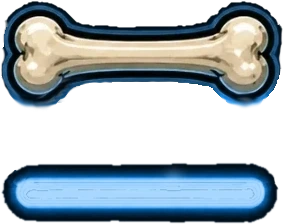
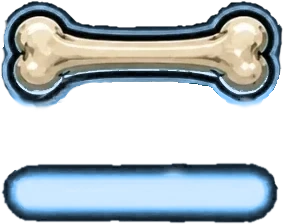
style(skeleton): brighter blue (#40a9ff) in CSS, canvas and images

diff --git a/src/renderer/style.css b/src/renderer/style.css
@@ -1387,7 +1387,7 @@ input[type="range"]::-moz-range-thumb {
 
 .skeleton-skin {
   /* The one Skeleton blue (spec: .kiro/specs/skeleton-one-blue.md). */
-  --sk-blue: #008cff;
+  --sk-blue: #40a9ff;
   filter: none;
 }
 
@@ -1428,7 +1428,7 @@ input[type="range"]::-moz-range-thumb {
   height: 23.2%;
   background: #020d16;
   border-radius: 1.1cqw;
-  box-shadow: inset 0 0 0 1px #38a5ff2e, inset 0 0 1.6cqw #000d18;
+  box-shadow: inset 0 0 0 1px #6abcff2e, inset 0 0 1.6cqw #000d18;
   overflow: hidden;
   z-index: 2;
 }
@@ -1442,7 +1442,7 @@ input[type="range"]::-moz-range-thumb {
   aspect-ratio: 1;
   transform: translate(-50%, -50%);
   border-radius: 50%;
-  background: #b5deff;
+  background: #c8e6ff;
   opacity: 0;
   transition: opacity 0.18s ease-out;
   pointer-events: none;
@@ -1488,7 +1488,7 @@ input[type="range"]::-moz-range-thumb {
   flex: none;
   display: flex;
   align-items: center;
-  color: var(--row, #35a4ff);
+  color: var(--row, #68bbff);
 }
 .skeleton-skin .sk-skull img {
   display: block;
@@ -1502,15 +1502,15 @@ input[type="range"]::-moz-range-thumb {
 .skeleton-skin .sk-row-time { flex: none; font-size: 0.95em; }
 .skeleton-skin .sk-row:hover,
 .skeleton-skin .sk-row:focus-visible {
-  filter: drop-shadow(0 0 0.45cqw #32a3ff);
-  outline: 1px solid #62b8ff;
+  filter: drop-shadow(0 0 0.45cqw #65baff);
+  outline: 1px solid #89caff;
 }
 .skeleton-skin .sk-row.active {
-  border-color: #63b9ff;
-  color: #35a4ff;
-  box-shadow: inset 0 0 0.45cqw #289eff, 0 0 0.45cqw #289eff;
+  border-color: #8acaff;
+  color: #68bbff;
+  box-shadow: inset 0 0 0.45cqw #5eb6ff, 0 0 0.45cqw #5eb6ff;
 }
-.skeleton-skin .sk-row.active .sk-row-time { color: #35a4ff; }
+.skeleton-skin .sk-row.active .sk-row-time { color: #68bbff; }
 
 /* Eye sockets = readout: the bloom follows the teeth-line energy */
 .skeleton-skin .sk-eye {
@@ -1522,7 +1522,7 @@ input[type="range"]::-moz-range-thumb {
   background: var(--sk-blue);
   filter: blur(0.2cqw);
   opacity: var(--eye, 0.2);
-  box-shadow: 0 0 1.2cqw 0.7cqw #008cff;
+  box-shadow: 0 0 1.2cqw 0.7cqw #40a9ff;
   pointer-events: none;
   z-index: 2;
 }
@@ -1576,9 +1576,9 @@ input[type="range"]::-moz-range-thumb {
   border-radius: 50%;
   background: radial-gradient(
     circle,
-    #008cff8c 0%,
-    #008cff4d 40%,
-    #0077d81f 64%,
+    #40a9ff8c 0%,
+    #40a9ff4d 40%,
+    #368fd81f 64%,
     transparent 80%
   );
   filter: blur(0.22cqw);
@@ -1591,13 +1591,13 @@ input[type="range"]::-moz-range-thumb {
   height: 100%;
   pointer-events: none;
   filter:
-    drop-shadow(0 0 0.16cqw #cde8ff)
-    drop-shadow(0 0 0.44cqw #1e9aff)
-    drop-shadow(0 0 1.05cqw #008cff);
+    drop-shadow(0 0 0.16cqw #daeeff)
+    drop-shadow(0 0 0.44cqw #56b3ff)
+    drop-shadow(0 0 1.05cqw #40a9ff);
 }
 .skeleton-skin .sk-glyph {
   fill: var(--sk-blue);
-  stroke: #d6edff;
+  stroke: #e0f1ff;
   stroke-width: 4.5;
   stroke-linejoin: round;
 }
@@ -1606,10 +1606,10 @@ input[type="range"]::-moz-range-thumb {
 .skeleton-skin .sk-body.playing .sk-glyph-pause { display: block; }
 .skeleton-skin .sk-body.playing .sk-pendant {
   box-shadow:
-    inset 0 0 0.59cqw #008cff99,
-    0 0 0.33cqw #1093ffaa,
-    0 0 0.91cqw #008cff99,
-    0 0 1.96cqw #008cff70;
+    inset 0 0 0.59cqw #40a9ff99,
+    0 0 0.33cqw #4caeffaa,
+    0 0 0.91cqw #40a9ff99,
+    0 0 1.96cqw #40a9ff70;
   animation: sk-breathe 1.6s ease-in-out infinite;
 }
 @keyframes sk-breathe {
@@ -1642,7 +1642,7 @@ input[type="range"]::-moz-range-thumb {
     #03111d var(--level, 80%),
     #03111d 100%
   );
-  box-shadow: inset 0 2px 4px #000c, 0 1px 1px #69ade530;
+  box-shadow: inset 0 2px 4px #000c, 0 1px 1px #88bbe530;
   cursor: pointer;
   z-index: 3;
 }
@@ -1651,18 +1651,18 @@ input[type="range"]::-moz-range-thumb {
   -webkit-appearance: none;
   width: clamp(7px, 2cqw, 30px);
   height: clamp(7px, 2cqw, 30px);
-  border: 1px solid #d3ebff;
+  border: 1px solid #def0ff;
   border-radius: 50%;
-  background: radial-gradient(circle at 35% 30%, #c9e7ff, var(--sk-blue) 55%, #007be0);
-  box-shadow: 0 0 3px #c9e7ff, 0 0 8px var(--sk-blue), 0 0 16px #008cffaa;
+  background: radial-gradient(circle at 35% 30%, #d6edff, var(--sk-blue) 55%, #3894e0);
+  box-shadow: 0 0 3px #d6edff, 0 0 8px var(--sk-blue), 0 0 16px #40a9ffaa;
 }
 .skeleton-skin .sk-volume::-moz-range-thumb {
   width: clamp(7px, 2cqw, 30px);
   height: clamp(7px, 2cqw, 30px);
-  border: 1px solid #d3ebff;
+  border: 1px solid #def0ff;
   border-radius: 50%;
-  background: radial-gradient(circle at 35% 30%, #c9e7ff, var(--sk-blue) 55%, #007be0);
-  box-shadow: 0 0 3px #c9e7ff, 0 0 8px var(--sk-blue), 0 0 16px #008cffaa;
+  background: radial-gradient(circle at 35% 30%, #d6edff, var(--sk-blue) 55%, #3894e0);
+  box-shadow: 0 0 3px #d6edff, 0 0 8px var(--sk-blue), 0 0 16px #40a9ffaa;
 }
 
 /* Muted: the arm's neon goes out. The lit run falls back to a dead tube and
@@ -1706,7 +1706,7 @@ input[type="range"]::-moz-range-thumb {
   background: transparent;
   transform: rotate(6deg);
   cursor: pointer;
-  filter: drop-shadow(0 0 0.26cqw #008cff);
+  filter: drop-shadow(0 0 0.26cqw #40a9ff);
   z-index: 3;
 }
 .skeleton-skin .sk-mute svg {
@@ -1718,22 +1718,22 @@ input[type="range"]::-moz-range-thumb {
 /* Hover only brightens the glyph; no box outline. The keyboard focus ring
    stays so the speaker is still visible when tabbed to. */
 .skeleton-skin .sk-mute:hover {
-  filter: drop-shadow(0 0 0.5cqw #8fccff);
+  filter: drop-shadow(0 0 0.5cqw #abd9ff);
 }
 .skeleton-skin .sk-mute:focus-visible {
-  filter: drop-shadow(0 0 0.5cqw #8fccff);
-  outline: 1px solid #62b8ff;
+  filter: drop-shadow(0 0 0.5cqw #abd9ff);
+  outline: 1px solid #89caff;
 }
 /* Off: the glyph's own neon dies with the channel, so the whole arm reads
    dead. The cone and waves drop to unlit glass and the bloom is pulled back
    to a faint contact shadow. Placed after the hover rule so hovering a muted
    speaker stays dark. */
 .skeleton-skin .sk-mute.muted {
-  filter: drop-shadow(0 0 0.06cqw #008cff2e);
+  filter: drop-shadow(0 0 0.06cqw #40a9ff2e);
 }
 .skeleton-skin .sk-mute.muted .sk-mute-cone {
   fill: #38566f;
-  stroke: #4a6e8b;
+  stroke: #5a758b;
 }
 .skeleton-skin .sk-mute.muted .sk-mute-waves {
   stroke: #2f4c64;
@@ -1787,7 +1787,7 @@ input[type="range"]::-moz-range-thumb {
   white-space: nowrap;
   text-shadow: 0 0 0.1cqw #000, 0 0 0.28cqw #01060b, 0 0 0.6cqw #01060bcc;
 }
-.skeleton-skin .sk-artist b { color: #1194ff; }
+.skeleton-skin .sk-artist b { color: #4daeff; }
 
 /* Blood line = seek */
 .skeleton-skin .sk-seek {
@@ -1811,7 +1811,7 @@ input[type="range"]::-moz-range-thumb {
   border-radius: 999px;
   box-shadow:
     inset 0 0 0.18cqw #d9feff55,
-    0 0 0.15cqw #bfe2ff99,
+    0 0 0.15cqw #cfe9ff99,
     0 0 0.45cqw color-mix(in srgb, var(--sk-blue) 67%, transparent);
   z-index: 3;
 }
@@ -1841,10 +1841,10 @@ input[type="range"]::-moz-range-thumb {
   /* No backdrop: the plate is already black here, and an opaque strip cut
      the tops off the painted PREV / NEXT plaques below it. */
   background: none;
-  color: #32a3ff;
+  color: #65baff;
   font: bold clamp(6px, 1.2cqw, 19px) monospace;
   line-height: 1.1;
-  text-shadow: 0 0 2px #008cff80;
+  text-shadow: 0 0 2px #40a9ff80;
   pointer-events: none;
   z-index: 3;
 }
@@ -1865,7 +1865,7 @@ input[type="range"]::-moz-range-thumb {
 .skeleton-skin .sk-prev { left: 34.7%; width: 9.7%; }
 .skeleton-skin .sk-next { left: 56.2%; width: 9.2%; }
 .skeleton-skin .sk-prev:hover,
-.skeleton-skin .sk-next:hover { background: #36a4ff18; }
+.skeleton-skin .sk-next:hover { background: #68bbff18; }
 .skeleton-skin .sk-prev:active,
 .skeleton-skin .sk-next:active { transform: scale(0.97); }
 
@@ -1912,9 +1912,9 @@ input[type="range"]::-moz-range-thumb {
 }
 .skeleton-skin .sk-tool:hover,
 .skeleton-skin .sk-tool:focus-visible {
-  filter: drop-shadow(0 0 0.45cqw #32a3ff);
+  filter: drop-shadow(0 0 0.45cqw #65baff);
 }
-.skeleton-skin .sk-tool:focus-visible { outline: 1px solid #62b8ff; }
+.skeleton-skin .sk-tool:focus-visible { outline: 1px solid #89caff; }
 .skeleton-skin .sk-tool:active { transform: scale(0.94); }
 .skeleton-skin .sk-tip {
   position: absolute;
@@ -1923,10 +1923,10 @@ input[type="range"]::-moz-range-thumb {
   transform: translateX(-50%);
   display: none;
   padding: 0.7cqw 0.9cqw;
-  border: 1px solid #43aaff;
+  border: 1px solid #72bfff;
   border-radius: 0.5cqw;
   background: #03121f;
-  color: #bde1ff;
+  color: #cee9ff;
   font: clamp(9px, 1.15cqw, 13px) Georgia, serif;
   letter-spacing: 0.06em;
   white-space: nowrap;
@@ -1965,7 +1965,7 @@ input[type="range"]::-moz-range-thumb {
   pointer-events: none;
   user-select: none;
   -webkit-user-drag: none;
-  filter: drop-shadow(0 0 4px #008cff88);
+  filter: drop-shadow(0 0 4px #40a9ff88);
   /* The source crop touches its top and bottom edges; feather those edges
      into the transparent margin instead of showing a hard cut. */
   -webkit-mask-image: linear-gradient(to bottom, transparent 0, #000 16px, #000 calc(100% - 10px), transparent 100%);
@@ -1986,16 +1986,16 @@ input[type="range"]::-moz-range-thumb {
 .skeleton-skin .sk-mini-eq i {
   width: 3%;
   height: 6%;
-  background: #299eff;
+  background: #5eb7ff;
   border-top: 1px solid #fff;
-  box-shadow: 0 0 4px #008cff;
+  box-shadow: 0 0 4px #40a9ff;
 }
 .skeleton-skin .sk-mini-eye {
   position: absolute;
   width: 5%;
   height: 5%;
   border-radius: 50%;
-  background: #b1dcff;
+  background: #c4e5ff;
   filter: blur(1.25cqw);
   pointer-events: none;
   mix-blend-mode: screen;
@@ -2016,13 +2016,13 @@ input[type="range"]::-moz-range-thumb {
 }
 .skeleton-skin .sk-mini-face button:hover,
 .skeleton-skin .sk-mini-face button:focus-visible {
-  filter: drop-shadow(0 0 2.1875cqw #2ea1ff);
+  filter: drop-shadow(0 0 2.1875cqw #62b8ff);
 }
 .skeleton-skin .sk-mini-restore:hover,
 .skeleton-skin .sk-mini-restore:focus-visible,
 .skeleton-skin .sk-mini-close:hover,
 .skeleton-skin .sk-mini-close:focus-visible {
-  background: #279eff0c;
+  background: #5db6ff0c;
 }
 .skeleton-skin .sk-mini-face .sk-mini-play {
   left: 41.2%;
@@ -2032,8 +2032,8 @@ input[type="range"]::-moz-range-thumb {
   background: #031a2d;
   color: #e0ffff;
   font: 9.375cqw Arial, sans-serif;
-  text-shadow: 0 0 0.9375cqw #fff, 0 0 2.1875cqw #008cff, 0 0 5cqw #008cff;
-  box-shadow: 0 0 2.8125cqw #008cff40;
+  text-shadow: 0 0 0.9375cqw #fff, 0 0 2.1875cqw #40a9ff, 0 0 5cqw #40a9ff;
+  box-shadow: 0 0 2.8125cqw #40a9ff40;
 }
 .skeleton-skin .sk-mini-face .sk-mini-play.isPlaying {
   background: transparent;

diff --git a/src/renderer/skins/SkeletonSkin.ts b/src/renderer/skins/SkeletonSkin.ts
@@ -63,9 +63,9 @@ const MINI_SIZE = { width: 340, height: 351, minWidth: 340, minHeight: 351 }
 /** Spectrum resolution — the web build's teeth line draws 24 bars */
 const BAR_COUNT = 15
 /** Bar colour, matched to the pendant's play glyph blue */
-const BAR_COLOR = '#0a91ff'
+const BAR_COLOR = '#47acff'
 /** Playlist skull colours, taken from the web build's first rows */
-const ROW_COLORS = ['#35a4ff', '#b3ef32', '#c397ff']
+const ROW_COLORS = ['#68bbff', '#b3ef32', '#c397ff']
 /** Hue rotations that take the skull art's cyan to each row colour above, so the
  *  rows keep the web build's cyan / lime / violet rhythm. */
 const ROW_HUES = ['0deg', '-102deg', '84deg']
@@ -210,9 +210,9 @@ export class SkeletonSkin implements Skin {
                aria-label="Volume" title="Volume" />
         <button class="sk-mute" aria-label="Mute" aria-pressed="false" title="Mute">
           <svg viewBox="0 0 48 48" aria-hidden="true">
-            <path class="sk-mute-cone" d="M7 17.5h8.6L26.4 7v34L15.6 30.5H7z" fill="#b7dfff" stroke="#eaffff"
+            <path class="sk-mute-cone" d="M7 17.5h8.6L26.4 7v34L15.6 30.5H7z" fill="#c9e7ff" stroke="#eaffff"
                   stroke-width="1.6" stroke-linejoin="round" />
-            <path class="sk-mute-waves" d="M31.2 16.2q6.4 7.8 0 15.6M36.4 9.6q11 14.4 0 28.8" fill="none" stroke="#66baff"
+            <path class="sk-mute-waves" d="M31.2 16.2q6.4 7.8 0 15.6M36.4 9.6q11 14.4 0 28.8" fill="none" stroke="#8ccbff"
                   stroke-width="3.2" stroke-linecap="round" />
           </svg>
         </button>

diff --git a/.kiro/specs/skeleton-one-blue.md b/.kiro/specs/skeleton-one-blue.md
@@ -1,6 +1,6 @@
 # Skeleton Skin: One Blue
 
-**Status:** In Progress (revision 3: brighter blue)
+**Status:** Revision 3 implemented (brighter blue, `#40a9ff`); visual check pending
 **Created:** 2026-11-25
 **Owner:** Maintainer
 **Implementation:** Kiro
@@ -69,3 +69,9 @@ Revision 2 results (2026-11-25):
 The maintainer asked for a brighter blue. Neon colours are already at full brightness value (1.0), so the blue is lifted by lowering saturation toward white, keeping hue 207.
 - R10: Skeleton colours and pixels with hue 200-215, saturation above 0.15 and brightness value above 0.5 get saturation x 0.75. `--sk-blue` becomes `#40a9ff` (`#008cff` at 0.75 saturation). Dark panels (value 0.5 or less) are not touched, so backgrounds stay deep.
 - Same scope as revision 2: Skeleton CSS rules, `SkeletonSkin.ts` canvas colours, the seven Skeleton webps. Alpha must stay identical.
+
+Revision 3 results (2026-11-25):
+- CSS: 58 edits inside Skeleton rules (0 lines outside); `--sk-blue: #40a9ff`. Dark panels unchanged.
+- TS: `#0a91ff` -> `#47acff`, `#35a4ff` -> `#68bbff`, `#b7dfff` -> `#c9e7ff`, `#66baff` -> `#8ccbff`.
+- Images: the CSS rule (bright pixels only) moved just 0.2% of the plate, because its blue glows are dim (value 0.5 or less). So images use a different rule: every blue pixel gets saturation x0.75 and value x1.3 (clamped at 1). Pixels moved per file: plate not counted (run interrupted, re-run once from `HEAD`), mini face 15.9%, tools 1.7% to 37.9%. Alpha max diff 0 in all seven files.
+- `npm run typecheck` and `npm run build` pass. Not checked in the running app.
